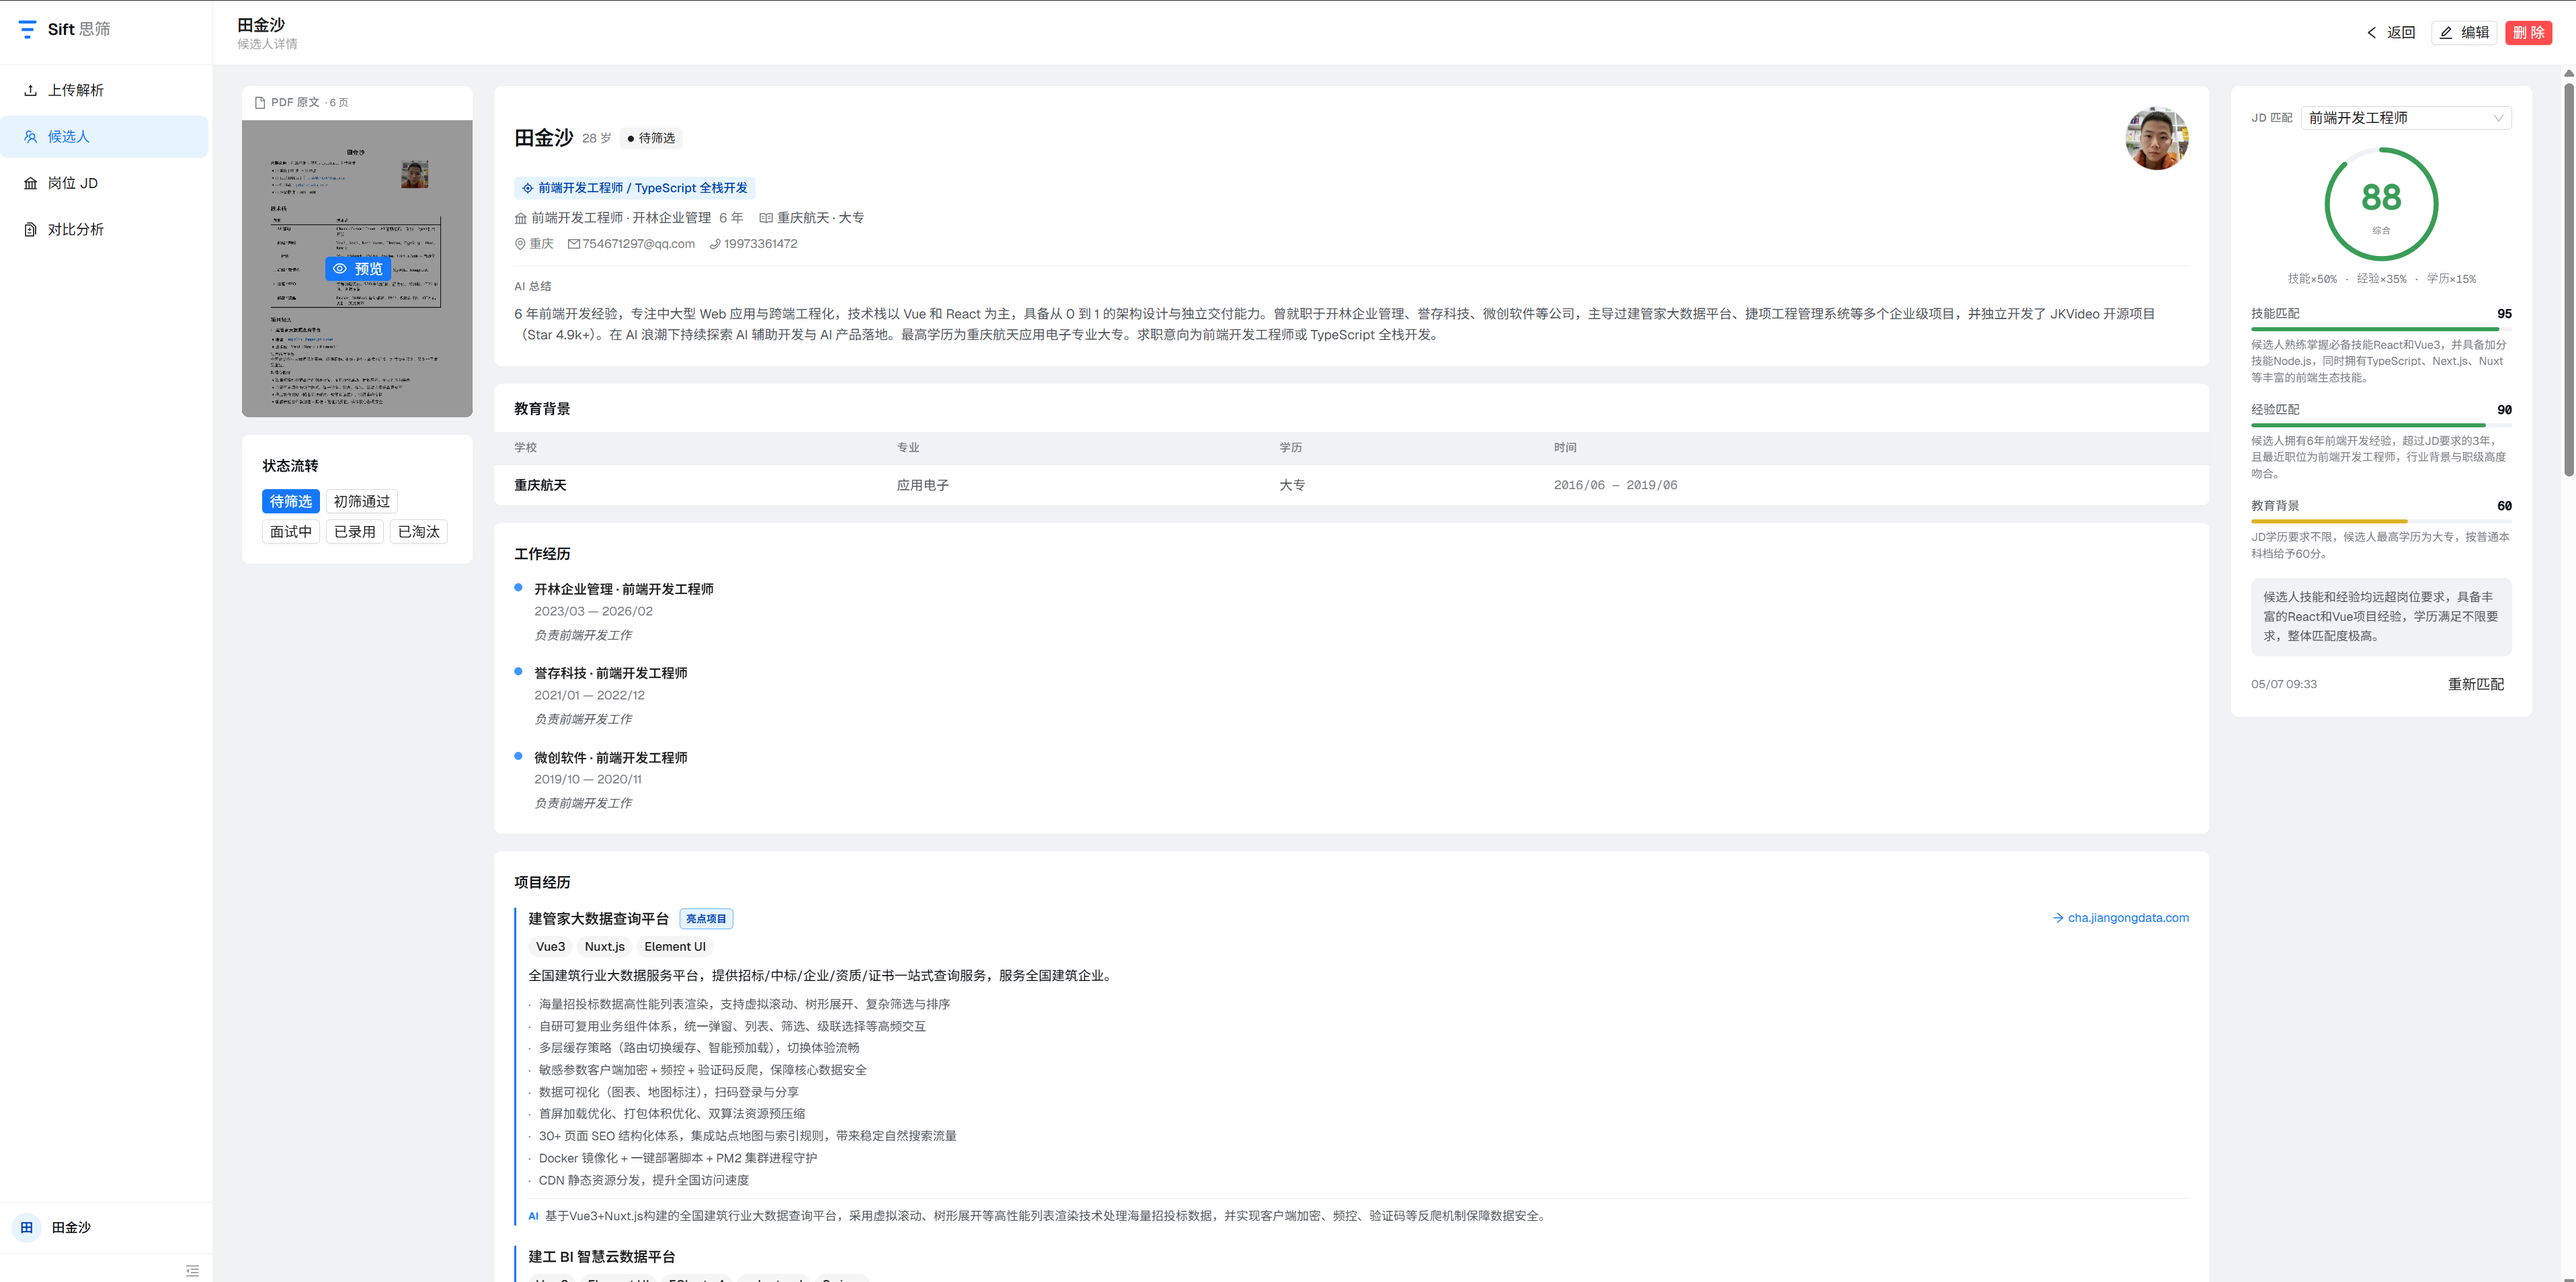
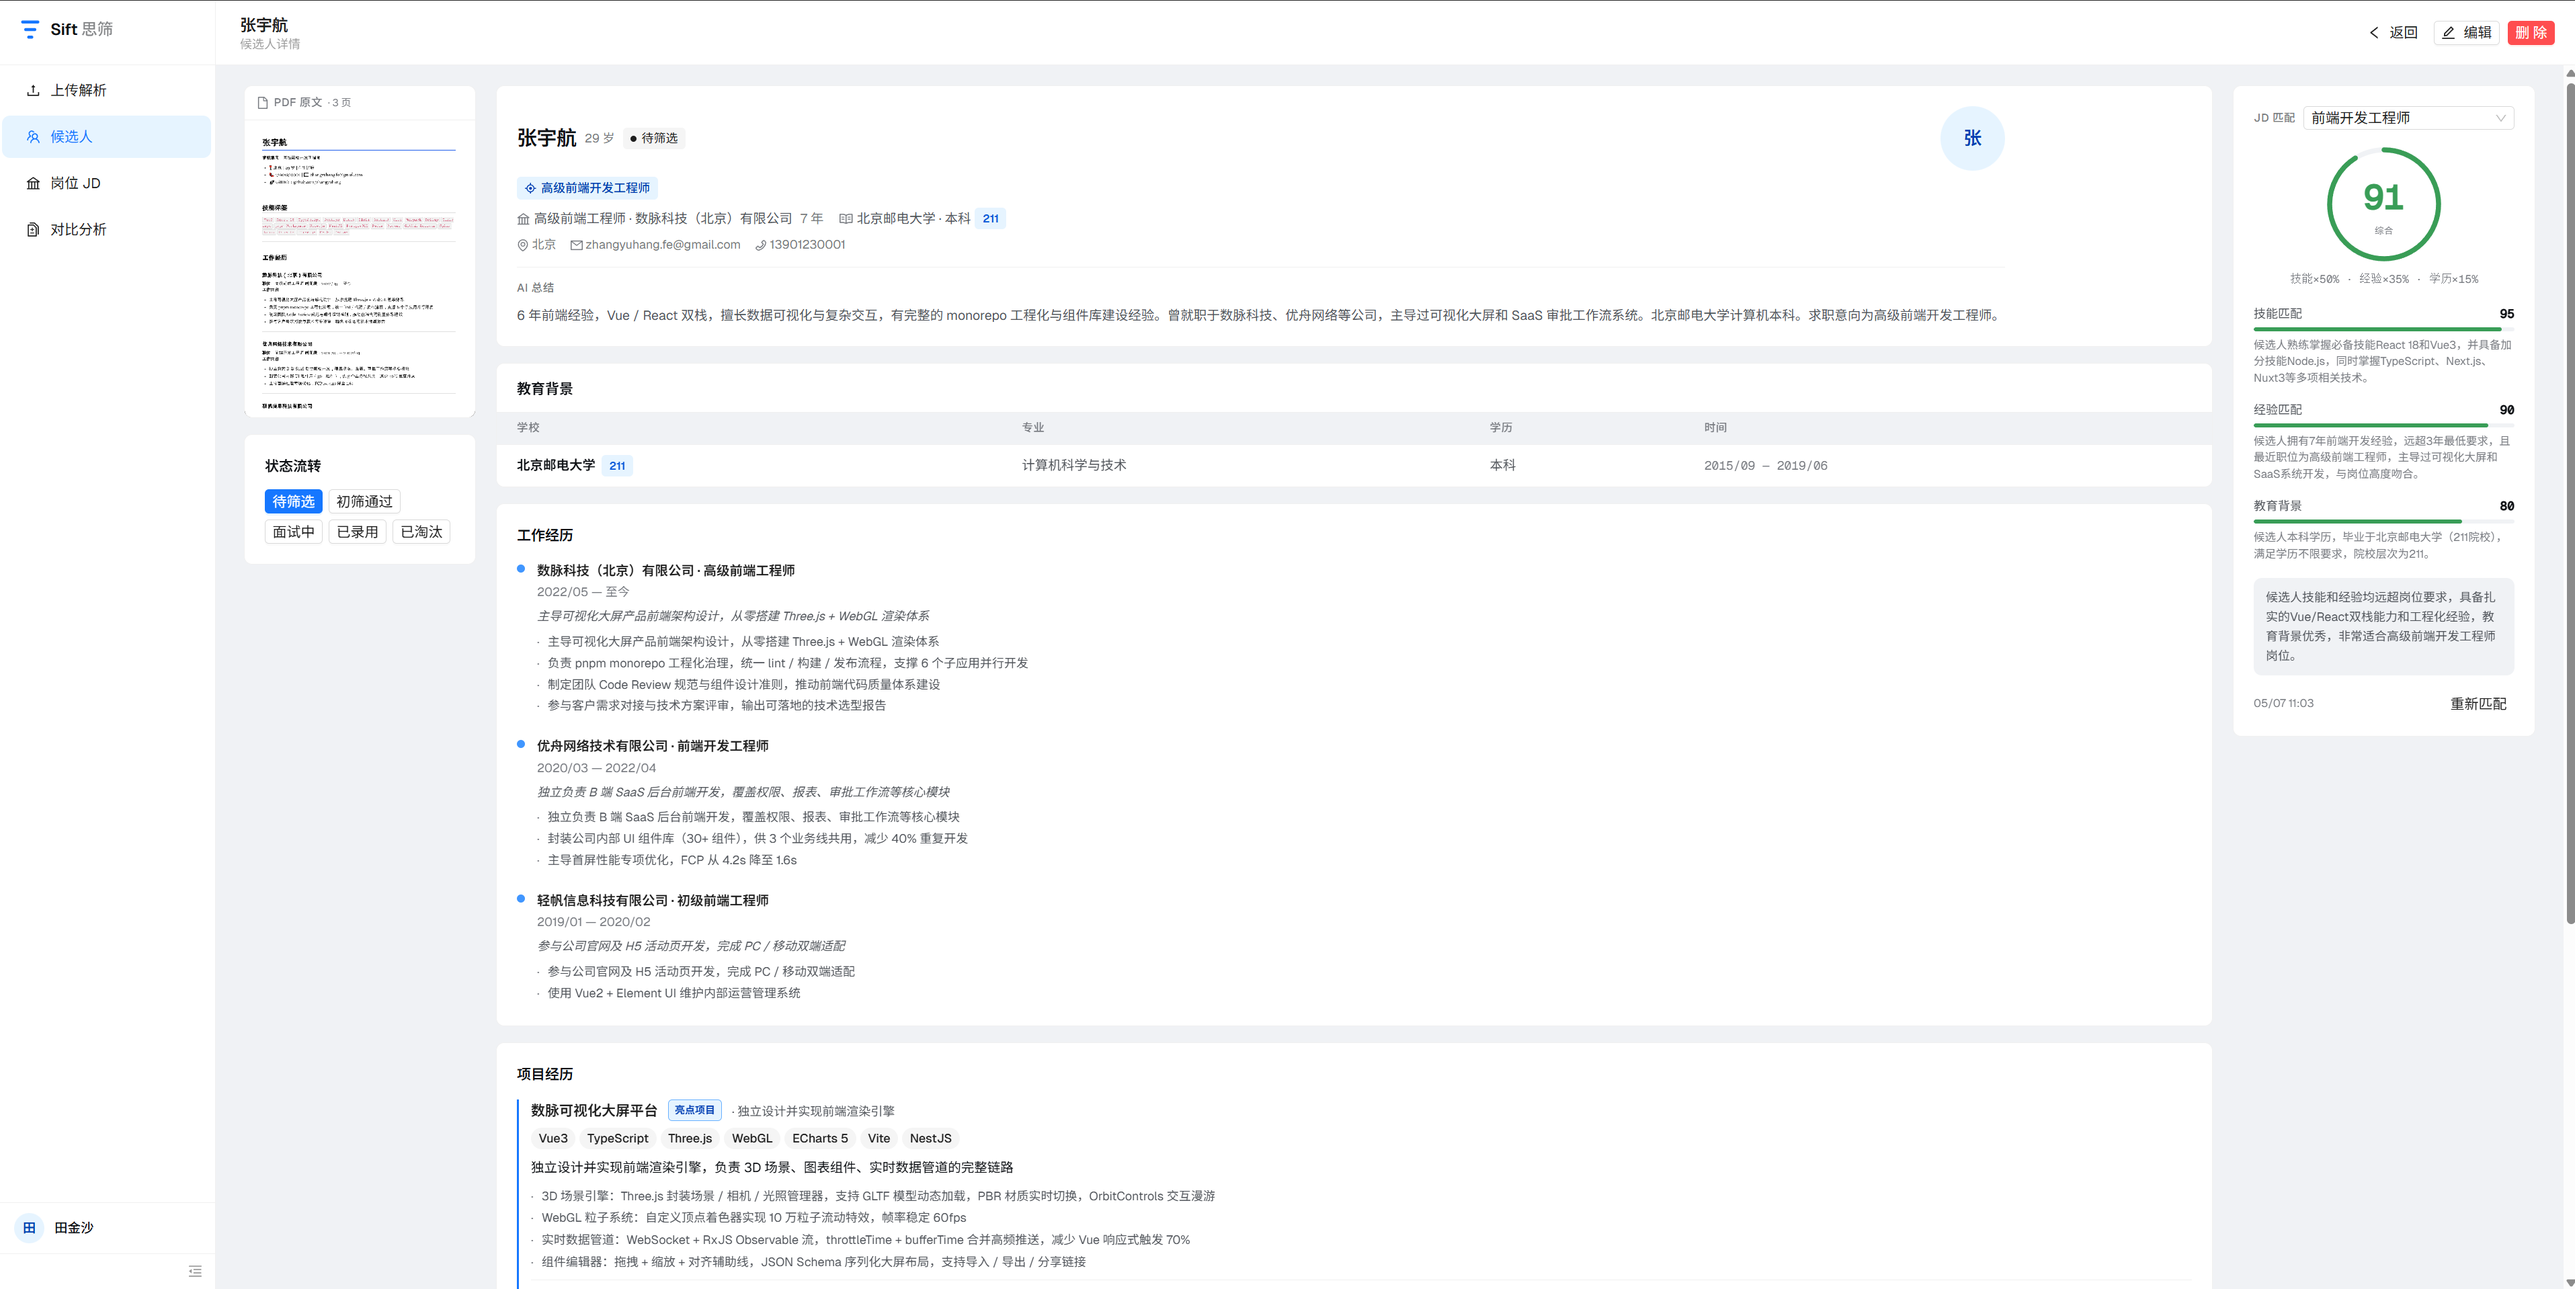
1

diff --git a/README.md b/README.md
@@ -11,8 +11,6 @@
 [![TypeScript](https://img.shields.io/badge/TypeScript-strict-3178c6.svg)](https://www.typescriptlang.org/)
 [![CI](https://github.com/tiajinsha/resume-agent-next/actions/workflows/ci.yml/badge.svg)](https://github.com/tiajinsha/resume-agent-next/actions/workflows/ci.yml)
 
-<img src="public/assets/brand-gradient.svg" alt="Sift 思筛" width="600" />
-
 </div>
 
 ## 📸 预览
